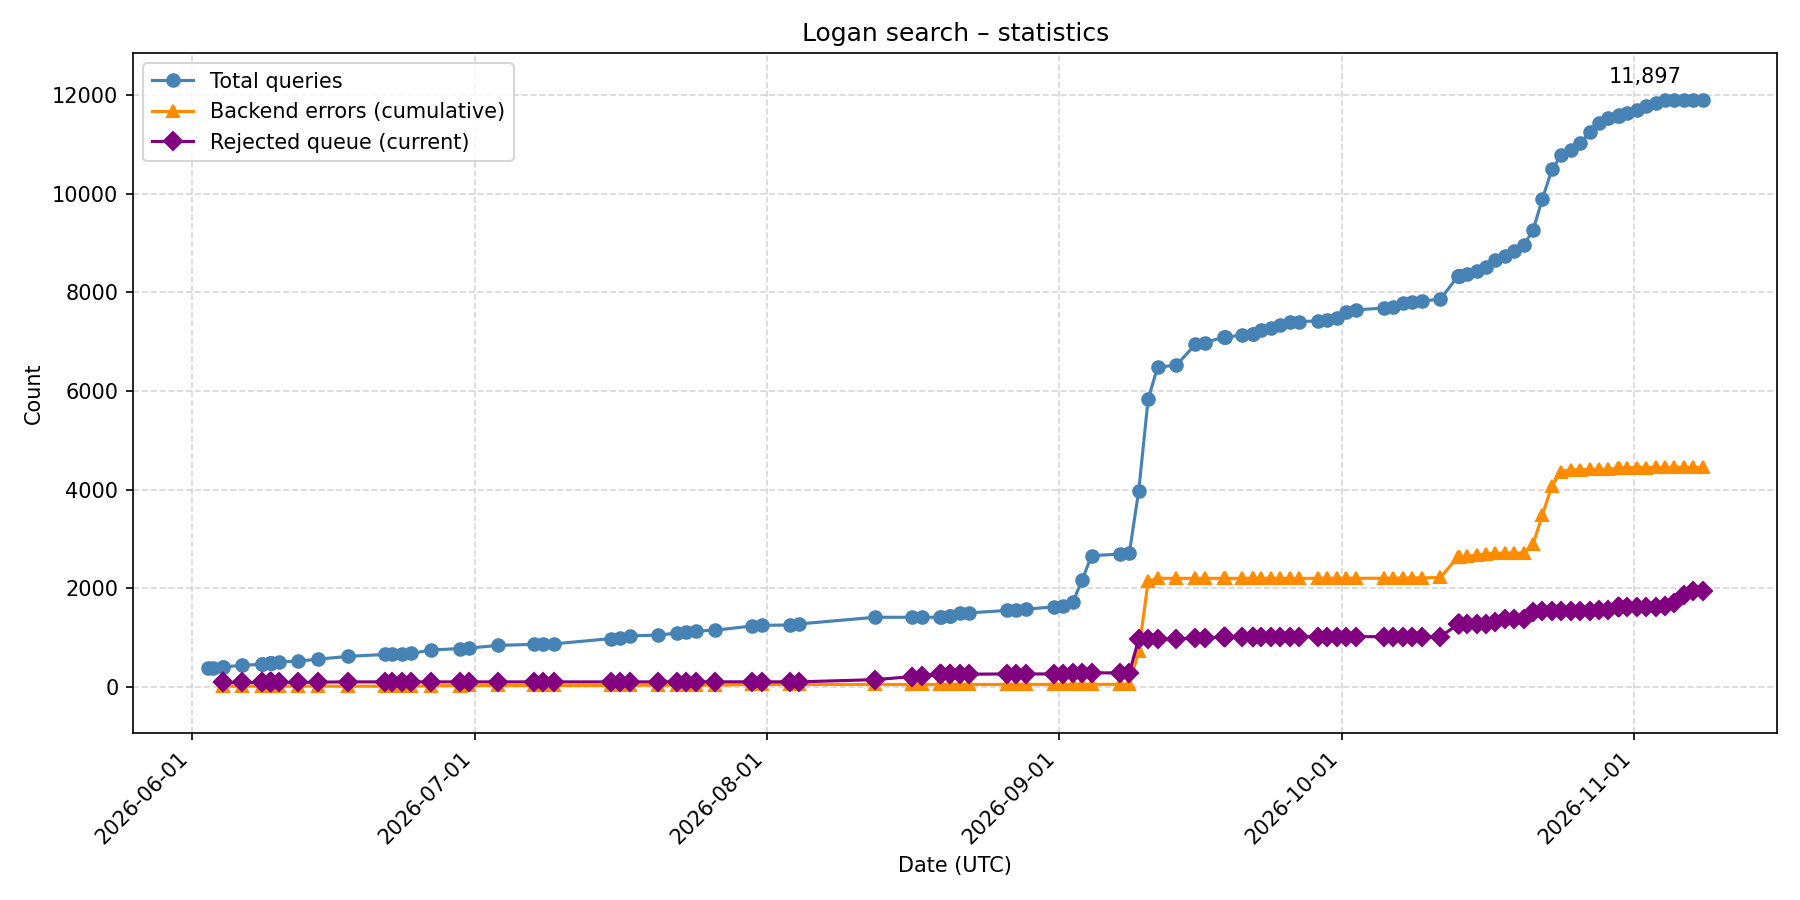
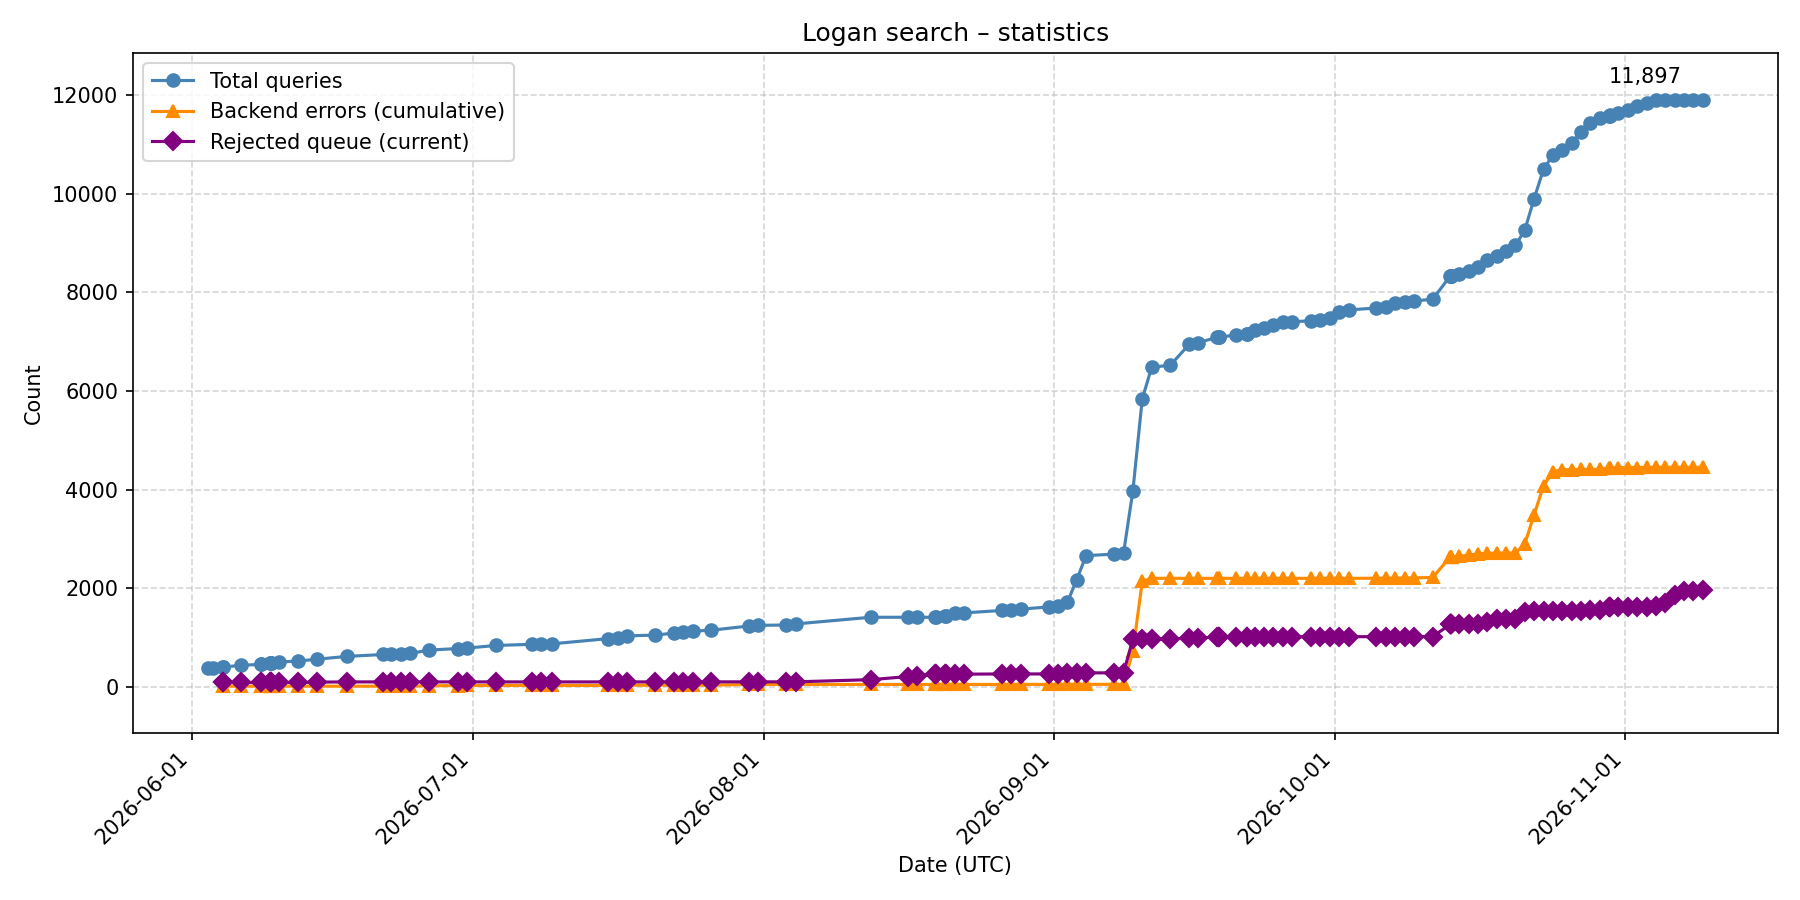
Update statistics 2026-11-09

diff --git a/README.md b/README.md
@@ -5,8 +5,8 @@ Usage statistics of [Logan Search](https://logan-search.org), updated once a day
 ## Yesterday
 
 <!-- daily-queries:start -->
-**Queries on 2026-11-07 (UTC): 2** on the backend (BRC Analytics history).
-The logan-search.org counter increased by 0 between 2026-11-07 06:00 and 2026-11-08 06:00 UTC.
+**Queries on 2026-11-08 (UTC): 0** on the backend (BRC Analytics history).
+The logan-search.org counter increased by 0 between 2026-11-08 06:00 and 2026-11-09 06:00 UTC.
 <!-- daily-queries:end -->
 
 ## Queries made on logan-search.org
